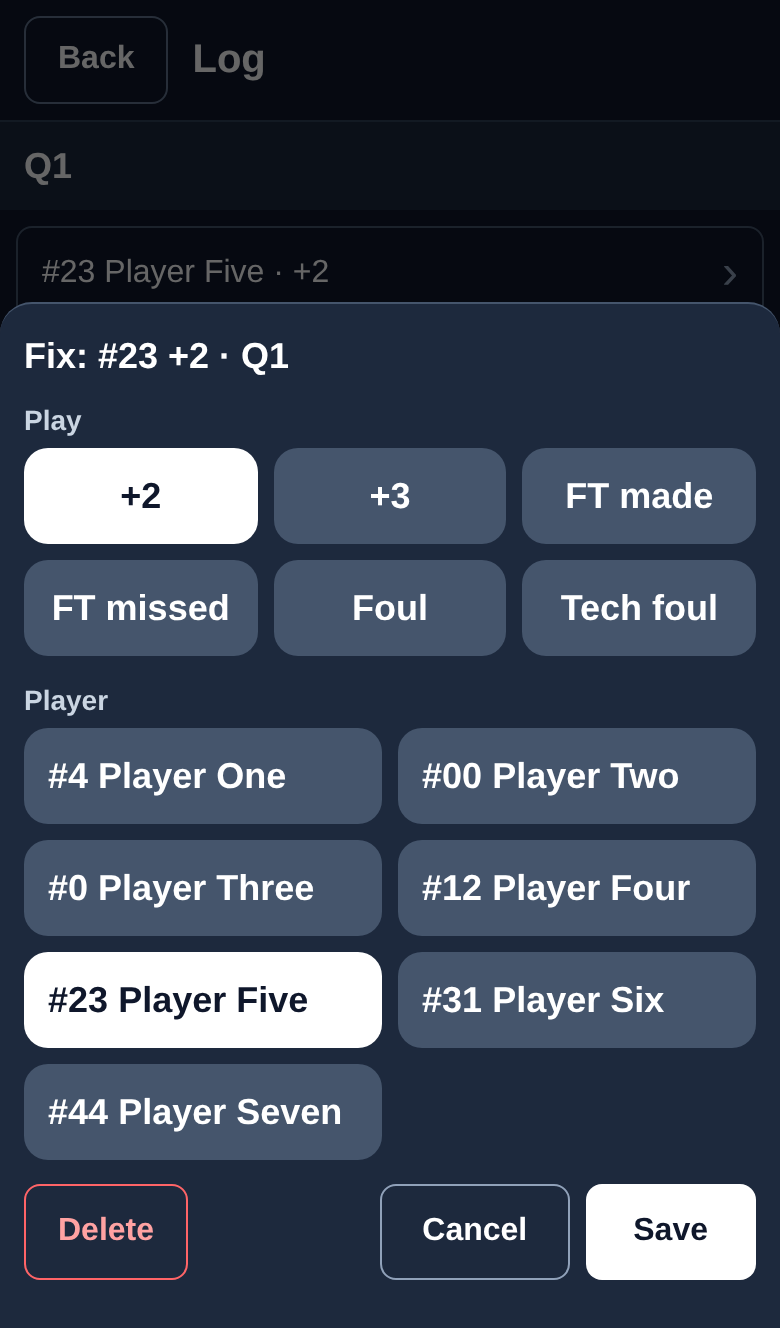
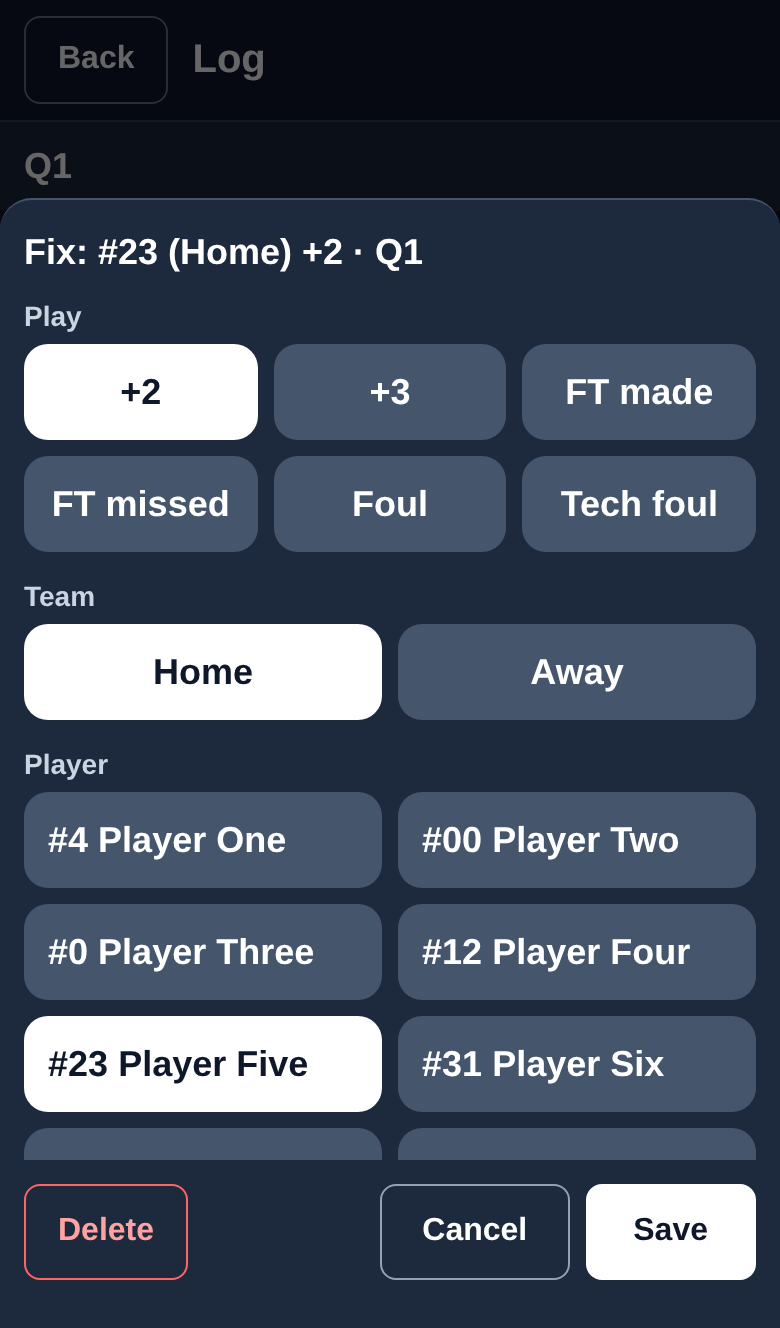
e2e: scripted games on the new screen, and a both-teams game

diff --git a/e2e/both-teams.spec.ts b/e2e/both-teams.spec.ts
@@ -1,0 +1,323 @@
+import { expect, test, type Page } from '@playwright/test';
+import { downloadCsv } from './csv';
+import { OPPONENT, TEAM, ui } from './fixture';
+
+/*
+ * Both-teams release test: one home game with both rosters, played by number, with every
+ * expected number worked out BY HAND from the table below. Nothing here imports from src/.
+ *
+ * Ours (fixture roster): #4 One, #00 Two, #0 Three, #12 Four, #23 Five, #31 Six, #44 Seven.
+ * Theirs (set up): #4 Rival One (the SAME number as our #4), #24 Rival Two, #10 Rival Three,
+ * #15 Rival Four. Their #33 is not on the roster: added mid-game at Whose number?.
+ *
+ *  ev | per | event                                    |  Us | Them | notes
+ *  ---+-----+------------------------------------------+-----+------+---------------------------
+ *   1 | Q1  | us   #4  One      +2                     |   2 |    0 |
+ *   2 | Q1  | them #4           +3                     |   2 |    3 | same number, other card
+ *   3 | Q1  | us   #44 Seven    +2                     |   4 |    3 |
+ *   4 | Q1  | them #24          Foul                   |   4 |    3 | their TF 1
+ *   5 | Q1  | them #24          Foul                   |   4 |    3 | their TF 2
+ *   6 | Q1  | them #10          +2                     |   4 |    5 |
+ *   7 | Q1  | us   #12 Four     Foul                   |   4 |    5 | our TF 1
+ *   8 | Q1  | us   #0  Three    +3                     |   7 |    5 |
+ *   9 | Q1  | them Full timeout                        |   7 |    5 | their Full 1 of 3
+ *     |     | End Q1. Check Q1: book 7 / 5             |     |      | MATCHED
+ *  10 | Q2  | them #24          Foul                   |   7 |    5 | #24 has 3
+ *  11 | Q2  | us   #00 Two      FT made                |   8 |    5 |
+ *  12 | Q2  | us   #00 Two      FT missed              |   8 |    5 | really MADE (fix a: -> 9)
+ *  13 | Q2  | them #24          Foul                   |   8 |    5 | #24 has 4
+ *  14 | Q2  | them Full timeout                        |   8 |    5 | their Full 2 of 3
+ *  15 | Q2  | us   #12 Four     Foul                   |   8 |    5 | our Q2 TF 1
+ *  16 | Q2  | them #15          +2                     |   8 |    7 |
+ *  17 | Q2  | them #24          Foul                   |   8 |    7 | #24 has 5 -> OUT; their Q2 TF 3
+ *  18 | Q2  | them Full timeout                        |   8 |    7 | their Full 3 of 3 (0 left)
+ *  19 | Q2  | them Full timeout, Take one anyway       |   8 |    7 | their Full 4 of 3
+ *  20 | Q2  | us   #23 Five     Foul                   |   8 |    7 | our Q2 TF 2 (book says 3)
+ *  21 | Q2  | us   #31 Six      +3                     |  11 |    7 |
+ *  22 | Q2  | them #4           FT made                |  11 |    8 |
+ *  23 | Q2  | them #10          +3                     |  11 |   11 | Q2: us 1+3 = 4, them 2+1+3 = 6
+ *     |     | End Q2. Check Q2: book 12 / 11           |     |      | us 1 short (FT), fouls 1 short
+ *  24 | Q2  | ADD us #31 Six Foul from the check       |  11 |   11 | score unchanged; our Q2 TF 3
+ *     |     | fix a: ev 12 FT missed -> FT made        |  12 |   11 | MATCHED -> Fixed
+ *  25 | Q3  | them +Play +3, Whose number? 33 (new)    |  12 |   14 | #33 joins their roster
+ *  26 | Q3  | us   #4  One      +2                     |  14 |   14 |
+ *  27 | Q3  | us   #44 Seven    +3                     |  17 |   14 | End Q3. Check Q3: 17 / 14 MATCHED
+ *  28 | Q4  | them #33          +2                     |  17 |   16 |
+ *  29 | Q4  | them +Play FT made, 33, then FT made     |  17 |   18 | #33 sheet for the pair
+ *  30 | Q4  | us   #0  Three    +2                     |  19 |   18 |
+ *  31 | Q4  | us   #00 Two      +3                     |  22 |   18 | End Q4 -> End game; Q4 unchecked
+ *
+ * Events: Q1 9 + Q2 14 + 1 added + Q3 3 + Q4 5 = 32 (ours 14, theirs 18).
+ * Final: Test Home 22, Test Opp 18.
+ * Their #24: 5 fouls (2 in Q1, 3 in Q2). Their #33: 3 + 2 + 1 + 1 = 7 points, no fouls.
+ * Their team fouls: Q1 2, Q2 3. Ours: Q1 1, Q2 3 (2 logged + 1 added). Timeouts used: theirs Full 4 of 3.
+ */
+
+const theirs = (page: Page) => ui(page).half('Away');
+const exact = (name: string) => ({ name, exact: true });
+/** Their player's card by number: `#24 Rival Two, 0 points, ...` or, for a nameless one, `#33, ...`. */
+const theirCard = (page: Page, no: string) => theirs(page).getByRole('button', { name: new RegExp(`^#${no}[ ,]`) });
+
+/** Taps their card, then each play; an FT pair closes with Done. */
+async function their(page: Page, no: string, plays: string[], done = false) {
+  const dialog = page.getByRole('dialog');
+  await theirCard(page, no).click();
+  for (const p of plays) await dialog.getByRole('button', exact(p)).click();
+  if (done) await dialog.getByRole('button', exact('Done')).click();
+  await expect(dialog).toHaveCount(0);
+}
+
+/** Their + Play, the play, then a number typed at Whose number?. Returns with the sheet that follows still open for an FT. */
+async function theirPlusPlay(page: Page, play: string, number: string) {
+  const dialog = page.getByRole('dialog');
+  await theirs(page).getByRole('button', exact('+ Play')).click();
+  await dialog.getByRole('button', exact(play)).click();
+  await expect(dialog).toHaveAccessibleName('Whose number?');
+  await dialog.getByLabel('Number', { exact: true }).fill(number);
+  await dialog.getByRole('button', exact('Save')).click();
+}
+
+test('both teams: a game by number with a halftime fix, a foul-out, a timeout at zero and an added player', async ({ page }) => {
+  const app = ui(page);
+  const dialog = page.getByRole('dialog');
+  const FULL_TIMEOUTS = { full: 3, thirty: 2 };
+  const strip = (us: number, opp: number, period: string, fouls: number) =>
+    app.expectStrip({ us, opp, period, fouls, bonus: false, timeouts: FULL_TIMEOUTS });
+
+  await test.step('setup: both rosters, #4 on both teams', async () => {
+    await page.goto('/');
+    await app.fillSetup(OPPONENT, TEAM);
+    await app.fillOppRoster([
+      { number: '4', name: 'Rival One' },
+      { number: '24', name: 'Rival Two' },
+      { number: '10', name: 'Rival Three' },
+      { number: '15', name: 'Rival Four' },
+    ]);
+    await app.startGame();
+    await strip(0, 0, 'Q1', 0);
+  });
+
+  await test.step('Q1: plays for both teams by number; the shared #4 is two different cards', async () => {
+    await app.score('Player One', '+2');
+    await their(page, '4', ['+3']);
+    await app.expectToast('#4 (Away) +3');
+    await expect(app.card('Player One')).toHaveAccessibleName('#4 Player One, 2 points, 0 fouls');
+    await expect(theirCard(page, '4')).toHaveAccessibleName('#4 Rival One, 3 points, 0 fouls');
+    await app.score('Player Seven', '+2');
+    await their(page, '24', ['Foul']);
+    await their(page, '24', ['Foul']);
+    await their(page, '10', ['+2']);
+    await app.foul('Player Four');
+    await app.score('Player Three', '+3');
+    await app.timeout('Full', 'Away');
+    await app.expectToast('Away timeout (Full)');
+    await expect(theirs(page).getByRole('button', exact('Full: 2'))).toBeVisible();
+    await strip(7, 5, 'Q1', 1);
+    await expect(theirs(page).getByText('Team fouls 2', { exact: true })).toBeVisible();
+    await expect(theirCard(page, '24')).toHaveAccessibleName('#24 Rival Two, 0 points, 2 fouls');
+
+    await app.endPeriod('Q1');
+    await app.checkQuarter('Q1', 7, 5);
+    await app.expectMatches();
+    await app.saveCheck();
+    await expect(app.banner('Q1')).toHaveCount(0);
+  });
+
+  await test.step('Q2: their #24 fouls out, 3 Full timeouts, a 4th taken anyway at zero', async () => {
+    await their(page, '24', ['Foul']);
+    await app.ft('Player Two', true, false); // the second is logged as missed, though it went in
+    await their(page, '24', ['Foul']);
+    await app.timeout('Full', 'Away');
+    await app.foul('Player Four');
+    await their(page, '15', ['+2']);
+    await their(page, '24', ['Foul']);
+    await expect(theirCard(page, '24')).toHaveAccessibleName('#24 Rival Two, 0 points, 5 fouls, out');
+    // The out warning shows on their sheet and every play is grayed out.
+    await theirCard(page, '24').click();
+    await expect(dialog.getByTestId('out-warning')).toContainText('Out: 5 fouls.');
+    await expect(dialog.getByRole('button', exact('+2'))).toBeDisabled();
+    await dialog.getByRole('button', exact('Done')).click();
+    await expect(dialog).toHaveCount(0);
+
+    await app.timeout('Full', 'Away'); // the third and last
+    const zero = theirs(page).getByRole('button', exact('Full: 0'));
+    await expect(zero).toBeVisible();
+    await zero.click();
+    await expect(dialog).toContainText('Away has no full timeouts left. Are you sure?');
+    await dialog.getByRole('button', exact('Take one anyway')).click();
+    await expect(dialog).toHaveCount(0);
+    await app.expectToast('Away timeout (Full)');
+    await expect(zero).toBeVisible(); // never below 0
+    await app.foul('Player Five');
+    await app.score('Player Six', '+3');
+    await their(page, '4', ['FT made'], true);
+    await their(page, '10', ['+3']);
+    await strip(11, 11, 'Q2', 2);
+    await expect(theirs(page).getByText('Team fouls 3', { exact: true })).toBeVisible();
+    await app.endPeriod('Q2');
+  });
+
+  await test.step('halftime check: the book is at 12 / 11; one FT and one foul to fix', async () => {
+    await app.checkQuarter('Q2', 12, 11);
+    await app.expectAppHas('Q2', 4, 6, 11, 11);
+    await app.expectShort('Q2', 12, 11, 1);
+    await app.expectMismatchHint();
+    // Their score matches the book, so nothing warns there.
+    await expect(page.getByTestId('compare-opp')).not.toHaveAttribute('class', /amber/);
+    const homeFouls = page.getByText(/^Team fouls in Q2 \(Home\):/);
+    const awayFouls = page.getByText(/^Team fouls in Q2 \(Away\):/);
+    await expect(homeFouls).toHaveText('Team fouls in Q2 (Home): 2');
+    await expect(awayFouls).toHaveText('Team fouls in Q2 (Away): 3');
+
+    // b) A foul never logged: the book has 3. Adding it moves the fouls, not the score.
+    await app.fixRegion().getByRole('button', exact('Add play to Q2')).click();
+    await dialog.getByRole('button', exact('#31 Player Six')).click();
+    await dialog.getByRole('button', exact('Foul')).click();
+    await expect(dialog).toHaveCount(0);
+    await expect(homeFouls).toHaveText('Team fouls in Q2 (Home): 3');
+    await expect(awayFouls).toHaveText('Team fouls in Q2 (Away): 3');
+    await app.expectAppHas('Q2', 4, 6, 11, 11);
+    await app.expectShort('Q2', 12, 11, 1);
+    await expect(page.getByRole('list', { name: 'Home player fouls, whole game' }).getByRole('listitem').filter({ hasText: '#31 Player Six' })).toHaveText('#31 Player Six1');
+
+    // a) A free throw logged as missed that went in: change its type in the fix sheet.
+    const row = app.logRow(app.fixRegion(), '#00 Player Two (Home) · FT missed');
+    await expect(row).toHaveCount(1);
+    await row.click();
+    await dialog.getByRole('group', exact('Play')).getByRole('button', exact('FT made')).click();
+    await dialog.getByRole('button', exact('Save')).click();
+    await expect(dialog).toHaveCount(0);
+    await app.expectAppHas('Q2', 5, 6, 12, 11);
+    await app.expectMatches();
+    await expect(homeFouls).toHaveText('Team fouls in Q2 (Home): 3');
+    await app.saveCheck();
+    await expect(app.banner('Q2')).toHaveCount(0);
+  });
+
+  await test.step('Q3: their late #33 joins at Whose number? and scores; check matches', async () => {
+    await expect(theirCard(page, '33')).toHaveCount(0);
+    await theirPlusPlay(page, '+3', '33');
+    await expect(dialog).toHaveCount(0);
+    await app.expectToast('#33 (Away) +3');
+    await expect(theirCard(page, '33')).toHaveCount(1);
+    await expect(theirCard(page, '33')).toHaveAccessibleName('#33, 3 points, 0 fouls');
+    await app.score('Player One', '+2');
+    await app.score('Player Seven', '+3');
+    await strip(17, 14, 'Q3', 0);
+    await app.endPeriod('Q3');
+    await app.checkQuarter('Q3', 17, 14);
+    await app.expectMatches();
+    await app.saveCheck();
+  });
+
+  await test.step('Q4: #33 again by card and by number; End game with Q4 unchecked', async () => {
+    await their(page, '33', ['+2']);
+    // A known number is the same player: no second #33 card.
+    await theirPlusPlay(page, 'FT made', '33');
+    await expect(dialog).toHaveAccessibleName('#33 (Away)');
+    await dialog.getByRole('button', exact('FT made')).click();
+    await dialog.getByRole('button', exact('Done')).click();
+    await expect(theirCard(page, '33')).toHaveCount(1);
+    await expect(theirCard(page, '33')).toHaveAccessibleName('#33, 7 points, 0 fouls');
+    await app.score('Player Three', '+2');
+    await app.score('Player Two', '+3');
+    await strip(22, 18, 'Q4', 0);
+    await app.endPeriodThen('Q4', 'End game (no overtime)');
+    await app.expectFinalScore(22, 18);
+    await expect(app.issue('Q4', 'pending')).toBeVisible();
+    await expect(app.issues()).not.toContainText('Q2');
+    await expect(app.issues()).not.toContainText('Q3');
+  });
+
+  await test.step('Book CSV: our block, their block with #24 out and 4 of 3 timeouts', async () => {
+    const rows = await downloadCsv(page, app.exportButton('Book CSV'));
+    const at = (first: string) => rows.findIndex((r) => r[0] === first);
+
+    const score = at('Score by period (running score after each)');
+    expect(rows[score + 1]).toEqual(['', 'Q1', 'Q2', 'Q3', 'Q4', 'Final']);
+    expect(rows[score + 2]).toEqual([TEAM, '7', '12', '17', '22*', '22*']);
+    expect(rows[score + 3]).toEqual([OPPONENT, '5', '11', '14', '18*', '18*']);
+
+    // Our block runs to the first block heading; theirs follows it.
+    const heading = rows.findIndex((r) => /\((Home|Away)\)$/.test(r[0]));
+    expect(heading).toBeGreaterThan(0);
+    const mine = rows.slice(0, heading);
+    const theirBlock = rows.slice(heading);
+    expect(theirBlock[0][0]).toBe(`${OPPONENT} (Away)`);
+
+    const colOf = (block: string[][], name: string) => block[block.findIndex((r) => r[0] === 'POS')].indexOf(name);
+    const line = (block: string[][], name: string) => block.find((r) => r[1] === name)!;
+    const fouls = (block: string[][], name: string) => line(block, name)[colOf(block, 'FOULS')];
+    const tp = (block: string[][], name: string) => line(block, name)[colOf(block, 'TP')];
+
+    // Ours: Player Six's added foul, Player Two's fixed FT.
+    expect(fouls(mine, 'Player Six')).toBe('1');
+    expect(fouls(mine, 'Player Four')).toBe('2');
+    expect(tp(mine, 'Player Two')).toBe('5');
+    expect(line(mine, 'Player Two')[colOf(mine, 'FTM')]).toBe('2');
+    expect(mine.find((r) => r[0] === 'TEAM TOTALS')![colOf(mine, 'TP')]).toBe('22');
+    expect(mine.filter((r) => r[0] === 'Team fouls')).toEqual([
+      ['Team fouls', 'Q1', '1'], ['Team fouls', 'Q2', '3'], ['Team fouls', 'Q3', '0'], ['Team fouls', 'Q4', '0'],
+    ]);
+    expect(mine.filter((r) => r[0] === 'Timeouts used')).toEqual([
+      ['Timeouts used', 'Full', '0 of 3'], ['Timeouts used', '30', '0 of 2'], ['Timeouts used', 'OT', '0 of 0'],
+    ]);
+
+    // Theirs.
+    expect(fouls(theirBlock, 'Rival Two')).toBe('5');
+    expect(line(theirBlock, 'Rival Two')[2]).toBe('#24');
+    expect(tp(theirBlock, 'Rival One')).toBe('4');
+    expect(line(theirBlock, 'Rival One')[2]).toBe('#4');
+    expect(tp(theirBlock, 'Rival Three')).toBe('5');
+    expect(tp(theirBlock, 'Rival Four')).toBe('2');
+    // The added #33 is a row with no name and 7 points: 3 + 2 + 1 + 1.
+    const added = theirBlock.find((r) => r[2] === '#33')!;
+    expect(added[1]).toBe('');
+    expect(added[colOf(theirBlock, 'TP')]).toBe('7');
+    expect(added[colOf(theirBlock, 'FTM')]).toBe('2');
+    expect(added[colOf(theirBlock, 'FOULS')]).toBe('0');
+    expect(theirBlock.find((r) => r[0] === 'TEAM TOTALS')![colOf(theirBlock, 'TP')]).toBe('18');
+    expect(theirBlock.filter((r) => r[0] === 'Team fouls')).toEqual([
+      ['Team fouls', 'Q1', '2'], ['Team fouls', 'Q2', '3'], ['Team fouls', 'Q3', '0'], ['Team fouls', 'Q4', '0'],
+    ]);
+    expect(theirBlock.filter((r) => r[0] === 'Timeouts used')).toEqual([
+      ['Timeouts used', 'Full', '4 of 3'], ['Timeouts used', '30', '0 of 2'], ['Timeouts used', 'OT', '0 of 0'],
+    ]);
+  });
+
+  await test.step('Plays CSV: every row on its own side, their #33 rows, the fixed FT', async () => {
+    const [header, ...plays] = await downloadCsv(page, app.exportButton('Plays CSV'));
+    const c = (name: string) => header.indexOf(name);
+    expect(plays).toHaveLength(32);
+    expect(['Q1', 'Q2', 'Q3', 'Q4'].map((p) => plays.filter((r) => r[c('period')] === p).length)).toEqual([9, 15, 3, 5]);
+
+    // team and side agree on every row: us is Home, they are Away.
+    for (const r of plays) expect(r[c('side')]).toBe(r[c('team')] === 'us' ? 'home' : 'away');
+    expect(plays.filter((r) => r[c('team')] === 'us')).toHaveLength(14);
+    expect(plays.filter((r) => r[c('side')] === 'away')).toHaveLength(18);
+    // Their points are their own plays now, never the old OPP_PTS.
+    expect(plays.filter((r) => r[c('event')] === 'OPP_PTS')).toHaveLength(0);
+
+    const rowsOf = (team: string, no: string) => plays.filter((r) => r[c('team')] === team && r[c('number')] === no).map((r) => r[c('event')]);
+    expect(rowsOf('opp', '33')).toEqual(['FG3', 'FG2', 'FTM', 'FTM']);
+    expect(plays.filter((r) => r[c('number')] === '33').map((r) => [r[c('team')], r[c('player')], r[c('side')]]))
+      .toEqual(Array(4).fill(['opp', '', 'away']));
+    expect(rowsOf('opp', '24')).toEqual(Array(5).fill('FOUL'));
+    // The same number on both teams stays apart.
+    expect(rowsOf('us', '4')).toEqual(['FG2', 'FG2']);
+    expect(rowsOf('opp', '4')).toEqual(['FG3', 'FTM']);
+
+    // Their four Full timeouts, no number, on their side.
+    expect(plays.filter((r) => r[c('event')] === 'TIMEOUT').map((r) => [r[c('team')], r[c('side')], r[c('detail')]]))
+      .toEqual(Array(4).fill(['opp', 'away', 'full']));
+
+    // The fixed FT is the one edit, and it now reads FTM; the added foul is the last Q2 row.
+    const edited = plays.filter((r) => r[c('edited')] === 'yes');
+    expect(edited.map((r) => [r[c('period')], r[c('team')], r[c('number')], r[c('event')]])).toEqual([['Q2', 'us', '00', 'FTM']]);
+    const q2 = plays.filter((r) => r[c('period')] === 'Q2');
+    expect(q2[q2.length - 1].slice(c('team'), c('event') + 1)).toEqual(['us', '31', 'Player Six', 'FOUL']);
+
+    const last = plays[plays.length - 1];
+    expect([last[c('us_score')], last[c('opp_score')]]).toEqual(['22', '18']);
+  });
+});
